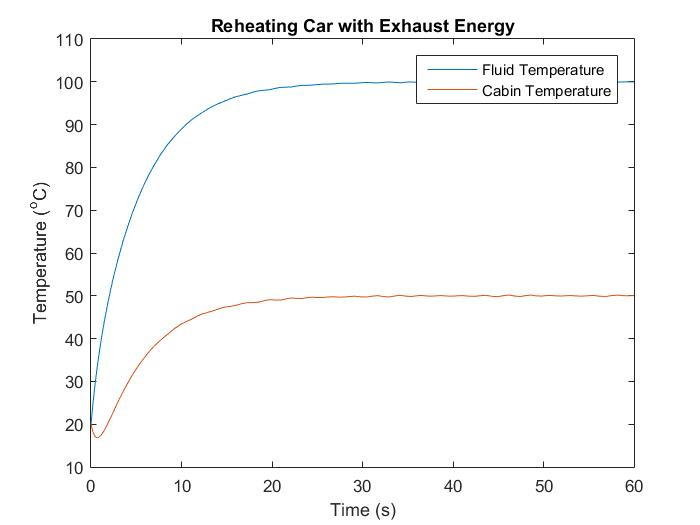
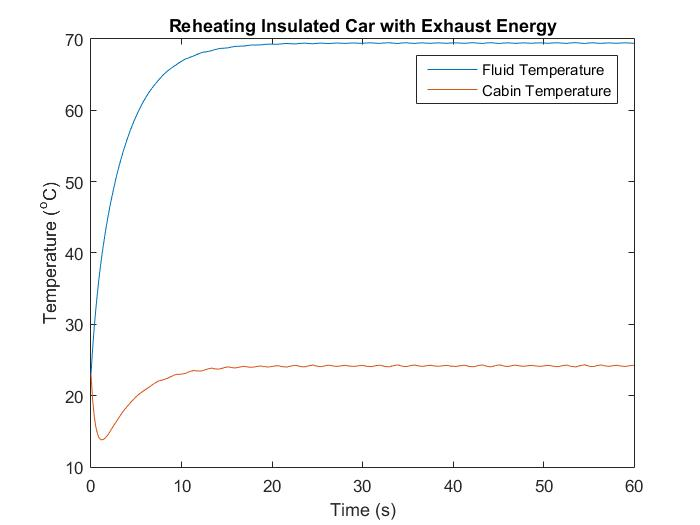
Refactorization
We changed our ODE45 variable to temperature rather than energy, which
simplified our code.

diff --git a/simulateExhaustCooling.m b/simulateExhaustCooling.m
@@ -1,12 +1,12 @@
-function [ output ] = simulateExhaustCooling(cabinSurfaceArea, fluidMass, fluidSpecificHeat, airMass, airSpecificHeat)
+function [ output ] = simulateExhaustCooling(wallK, outsideTemp)
     
     %chosen
-    %We chose to use a nissan altima 2.5 liter 4-cylinder engine for our
-    %model
-    nissanAltimaEnginePower = 182; %hp
-    horsepowerToWatts = 746;
     engineEfficiency = 1/3;
+    cabThickness = .1;%m
     
+    fluidVol = .001;%m^3
+    seconds = 30;
+   
     %Fluid is in a aluminum container
     fluidContainerSurfaceArea = .1;%(m^2)
     fluidContainerThickness = .01;%m
@@ -15,38 +15,44 @@ function [ output ] = simulateExhaustCooling(cabinSurfaceArea, fluidMass, fluidS
     %Fluid and cabin start at room temperature
     fluidTempInit = 296;%K
     cabinTempInit = 296;%K
-    outsdTemp = 273;%K
     
-    cabThickness = .1;%m
-    wallK = 30;%51.8;%W/mK
-    seconds = 60;
     
-    %preexisting
-    %convectConst = 100;%W/m2K
+    % preexisting----------------------------------------------
+    %We chose to use a nissan altima with a 2.5 liter 4-cylinder engine
+    nissanAltimaEnginePower = 182; %hp
+    horsepowerToWatts = 746;
+    cabinVol = 3;%m^3
+    %We are using water as our fluid
+    waterDens = 1000;%kg/m^3
+    waterSpecificHeat = 4186;%J/(kg*K)
+    airDens = 1.225;%kg/m^3
+    airSpecificHeat = 1000;%J/(kg*K)\
     
     %derived
+    fluidMass = waterDens * fluidVol;
+    airMass = airDens * cabinVol;
     exhaustPower = nissanAltimaEnginePower * horsepowerToWatts * (1 - engineEfficiency);
-    cabinInitialEnergy = getEnergy(cabinTempInit, airMass, airSpecificHeat);
-    fluidInitialEnergy = getEnergy(fluidTempInit, fluidMass, fluidSpecificHeat);
+    cabinSurfaceArea = 6 * cabinVol^(2/3);
     
-    [T, U] = ode45(@netFlows, [0,seconds], [fluidInitialEnergy;cabinInitialEnergy]);
-    output = [T U];
+    [Time, Temperature] = ode45(@netFlows, [0,seconds], [fluidTempInit; cabinTempInit]);
+    output = [Time Temperature];
 
 
-    function flows = netFlows(~,U)
-        Ufluid_current = U(1);
-        Uair_current = U(2);
-
-        fluidT_current = getTemperature(Ufluid_current,fluidMass,fluidSpecificHeat);
-        cabinT_current = getTemperature(Uair_current,airMass,airSpecificHeat);
+    function flows = netFlows(~,Temperature)
+        Tfluid_current = Temperature(1);
+        Tair_current = Temperature(2);
 
         %convection = getConvection(convectConst,area,fluidT_current,cabinT_current);
-        conduction1 = getConduction(aluminumHeatTransferCoefficient,fluidContainerSurfaceArea,fluidContainerThickness, fluidT_current, cabinT_current);
-        conduction2 = getConduction(wallK,cabinSurfaceArea,cabThickness, cabinT_current, outsdTemp);
+        conduction1 = getConduction(aluminumHeatTransferCoefficient,fluidContainerSurfaceArea,fluidContainerThickness, Tfluid_current, Tair_current);
+        conduction2 = getConduction(wallK,cabinSurfaceArea,cabThickness, Tair_current, outsideTemp);
 
         Ufluid_flow = (exhaustPower - conduction1);
-        Uair_flow = (conduction1-conduction2);
-        flows = [Ufluid_flow; Uair_flow];
+        Uair_flow = (conduction1 - conduction2);
+        
+        Tfluid_flow = getTemperature(Ufluid_flow, fluidMass, waterSpecificHeat);
+        Tair_flow = getTemperature(Uair_flow, airMass, airSpecificHeat);
+        
+        flows = [Tfluid_flow; Tair_flow];
     end
 end
 

diff --git a/plotExhaustCooling.m b/plotExhaustCooling.m
@@ -1,29 +1,13 @@
 %plotExhaustCooling.m
  format long;
  
- %chosen
- fluidVol = .001;%m^3
- %Volume of nissan altima interior
- cabinVol = 3;%m^3
+ wallK = 30;%W/mK
+ outsideTemp = 273;%K
 
- %preexisting
- waterDens = 1000;%kg/m^3
- waterSpecificHeat = 4186;%J/(kg*K)
- airDens = 1.225;%kg/m^3
- airSpecificHeat = 1000;%J/(kg*K)
- 
- %derived
- cabinSurfaceArea = 6 * cabinVol^(2/3);
- fluidMass = waterDens * fluidVol;
- airMass = airDens * cabinVol;
- 
- output = simulateExhaustCooling(cabinSurfaceArea, fluidMass, waterSpecificHeat, airMass, airSpecificHeat);
+ output = simulateExhaustCooling(wallK, outsideTemp);
  time = output(:,1);
- Ufluid = output(:,2);
- Ucabin = output(:,3);
- 
- Tfluid = getTemperature(Ufluid, fluidMass, waterSpecificHeat);
- Tcabin = getTemperature(Ucabin, airMass, airSpecificHeat);
+ Tfluid = output(:,2);
+ Tcabin = output(:,3);
  
  median(Tcabin - 273)
  
@@ -31,4 +15,4 @@
  legend('Fluid Temperature','Cabin Temperature');
  ylabel('Temperature (^oC)');
  xlabel('Time (s)');
- title('Reheating Car with Exhaust Energy');
+ title('Reheating Uninsulated Car with Exhaust Energy');
